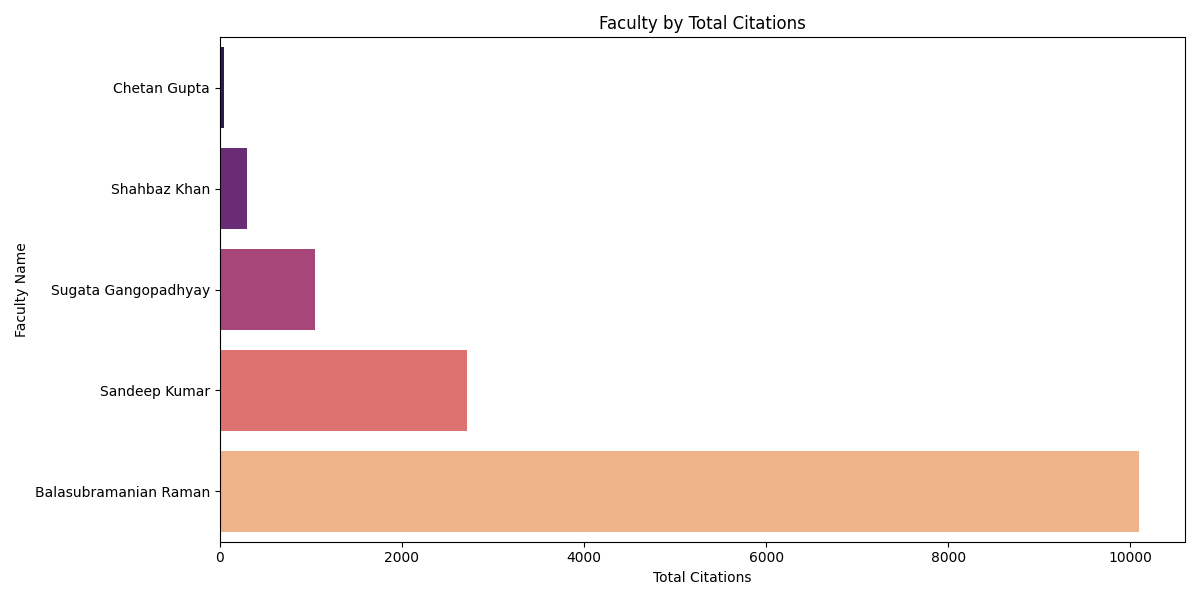
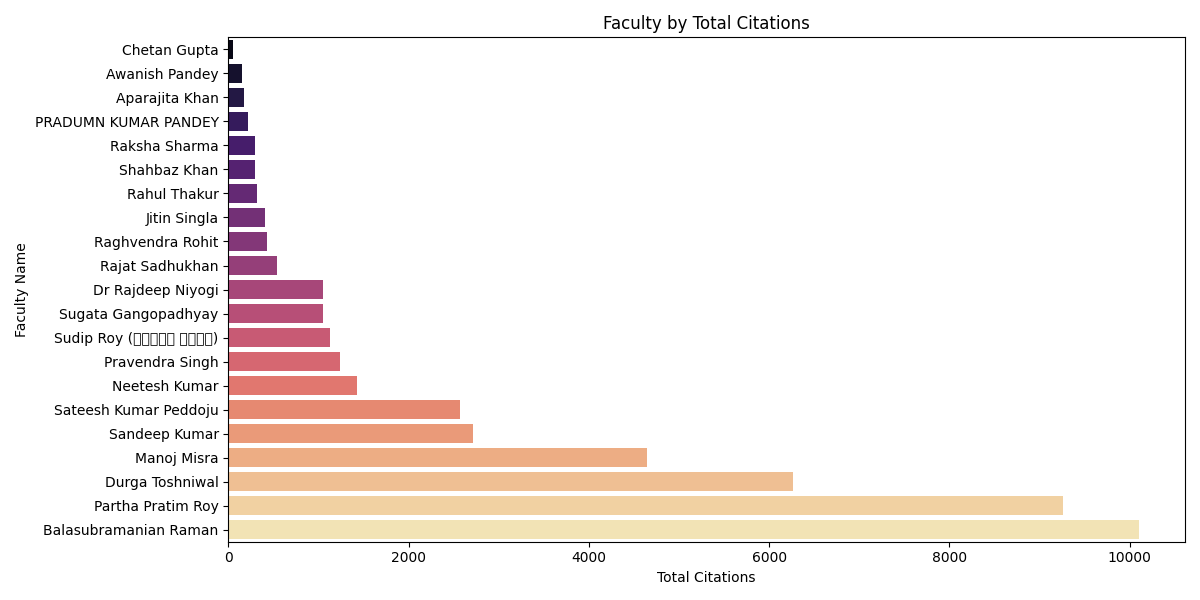
Community as per research area added, Community enlarged

Changed region(s): [[0.0308, 0.06, 0.9558, 0.99], [0.4933, 0.03, 0.6783, 0.06]]

diff --git a/paper_data_scraper.py b/paper_data_scraper.py
@@ -6,16 +6,14 @@ from urllib.parse import urlparse, parse_qs
 # Input and output file paths
 INPUT_CSV = "./data/iit_faculty_info.csv"  # Change this to your actual file
 OUTPUT_CSV = "./data/scholar_profile_data.csv"
-RECORD_LIMIT = 5  # Change this to limit the number of profiles to process
+SKIPPED_CSV = "./data/skipped_records.csv"  # File to store skipped records
 
 # Read faculty information from CSV
-def read_faculty_data(file_path, limit):
+def read_faculty_data(file_path):
     faculty_data = []
     with open(file_path, newline='', encoding='utf-8') as csvfile:
         reader = csv.DictReader(csvfile)
-        for i, row in enumerate(reader):
-            if i >= limit:
-                break
+        for row in reader:
             faculty_data.append((row["Faculty Name"].strip(), row["Google Scholar Link"].strip()))
     return faculty_data
 
@@ -39,42 +37,51 @@ def fetch_scholar_data(profile_id):
         h_index = author.get("hindex", 0)
         i10_index = author.get("i10index", 0)
         
-        # Get all publications
-        # publications = [
-        #     (p["bib"].get("title", "N/A"), p.get("num_citations", 0)) 
-        #     for p in author.get("publications", [])
-        # ]
-        
         return [name, affiliation, interests, citations, h_index, i10_index]
-        # return [name, affiliation, interests, citations, h_index, i10_index, publications]
     except Exception as e:
         print(f"Error fetching data for profile {profile_id}: {e}")
         return ["Error", "Error", "Error", "Error", "Error", "Error"]
-        # return ["Error", "Error", "Error", "Error", "Error", "Error", "Error"]
 
 # Write results to CSV
 def write_to_csv(data, output_file):
     with open(output_file, mode='w', newline='', encoding='utf-8') as file:
         writer = csv.writer(file)
         writer.writerow(["Faculty Name", "Name", "Affiliation", "Research Interests", "Total Citations", "h-index", "i10-index"])
-        # writer.writerow(["Faculty Name", "Name", "Affiliation", "Research Interests", "Total Citations", "h-index", "i10-index", "Publications (Title, Citations)"])
         writer.writerows(data)
 
+# Write skipped records to CSV
+def write_skipped_records(skipped_data, skipped_file):
+    with open(skipped_file, mode='w', newline='', encoding='utf-8') as file:
+        writer = csv.writer(file)
+        writer.writerow(["Faculty Name", "Google Scholar Link"])
+        writer.writerows(skipped_data)
+
 # Main execution
-faculty_list = read_faculty_data(INPUT_CSV, RECORD_LIMIT)
+faculty_list = read_faculty_data(INPUT_CSV)
 data = []
+skipped_records = []
 
 for faculty_name, scholar_link in faculty_list:
     print(f"Fetching data for {faculty_name}...")
+    if not scholar_link:  # Skip if the link is missing
+        print(f"Missing Google Scholar link for {faculty_name}")
+        skipped_records.append([faculty_name, scholar_link])
+        continue
+    
     profile_id = extract_profile_id(scholar_link)
     if profile_id:
         result = fetch_scholar_data(profile_id)
-        data.append([faculty_name] + result)
+        if "Error" in result:  # Skip if there was an error fetching data
+            skipped_records.append([faculty_name, scholar_link])
+        else:
+            data.append([faculty_name] + result)
     else:
         print(f"Invalid Google Scholar link for {faculty_name}")
-        data.append([faculty_name, "Invalid Link", "N/A", "N/A", "N/A", "N/A", "N/A"])
-        # data.append([faculty_name, "Invalid Link", "N/A", "N/A", "N/A", "N/A", "N/A", "N/A"])
+        skipped_records.append([faculty_name, "Invalid Link"])
+    
     time.sleep(3)  # Minimal delay to avoid detection
 
 write_to_csv(data, OUTPUT_CSV)
+write_skipped_records(skipped_records, SKIPPED_CSV)
 print(f"Data saved to {OUTPUT_CSV}")
+print(f"Skipped records saved to {SKIPPED_CSV}")

diff --git a/community.py b/community.py
@@ -1,0 +1,68 @@
+import pandas as pd
+import networkx as nx
+import matplotlib.pyplot as plt
+import numpy as np
+
+SAVE_PATH = "./plots/community.png"
+# Load the data from the CSV file
+data = pd.read_csv('data/iit_research_areas.csv')
+
+# Clean column names by stripping whitespace
+data.columns = data.columns.str.strip()
+
+# Create a graph
+G = nx.Graph()
+
+# Create a mapping of professors to research areas
+for index, row in data.iterrows():
+    research_area = row['Research Area']
+    professors = [prof.strip() for prof in row['Faculty Members'].split(',')]
+    
+    # Add edges between professors for the same research area
+    if len(professors) > 1:  # Only add edges if there are multiple professors
+        for i in range(len(professors)):
+            for j in range(i + 1, len(professors)):
+                G.add_edge(professors[i], professors[j], research_area=research_area)
+
+# Draw the graph
+plt.figure(figsize=(16, 12))  # Increased figure size for better visibility
+pos = nx.spring_layout(G, k=0.6)  # Adjusted k for better separation
+
+# Create a color map for edges based on research areas
+edge_colors = {}
+for index, row in data.iterrows():
+    research_area = row['Research Area']
+    if research_area not in edge_colors and len(row['Faculty Members'].split(',')) > 1:
+        edge_colors[research_area] = np.random.rand(3,)  # Random color for each community
+
+# Draw edges with community colors
+for u, v, data in G.edges(data=True):
+    color = edge_colors[data['research_area']]
+    nx.draw_networkx_edges(G, pos, edgelist=[(u, v)], edge_color=[color], alpha=0.6)  # Adjusted alpha for visibility
+
+# Draw all nodes with distinct colors
+node_colors = ['lightblue' if G.degree(node) > 1 else 'lightgray' for node in G.nodes()]
+nx.draw_networkx_nodes(G, pos, node_color=node_colors, node_size=800)  # Increased node size
+
+# Draw labels
+nx.draw_networkx_labels(G, pos, font_size=12)
+
+# Create a legend for edges
+handles = [plt.Line2D([0], [0], marker='o', color='w', label=area, 
+                       markerfacecolor=color, markersize=10) for area, color in edge_colors.items()]
+
+# Add single-member research areas to the legend
+data = pd.read_csv('data/iit_research_areas.csv')
+single_member_areas = data[data['Faculty Members'].str.count(',') == 0]['Research Area']
+for area in single_member_areas:
+    handles.append(plt.Line2D([0], [0], marker='o', color='w', label=area, 
+                                markerfacecolor='lightgray', markersize=10))
+
+plt.legend(handles=handles, title='Research Areas', loc='upper left', bbox_to_anchor=(1, 1))
+
+# Show the plot
+plt.title('Community Structure of Professors Based on Research Areas')
+plt.axis('off')  # Turn off the axis
+plt.tight_layout()  # Adjust layout to prevent clipping
+plt.savefig(SAVE_PATH)
+plt.show()

diff --git a/README.md b/README.md
@@ -1,1 +1,14 @@
 Cite-Net-Influence
+
+Flow:
+
+Cautions:
+Don't run the scraper.py file, it will erase manually added Google Scholar links in data/iit_faculty_info.csv
+
+1. Scrape the research areas of the faculty from the website using scraper.py
+2. Manually add the Google Scholar links to the faculty information in data/iit_faculty_info.csv
+3. Scrape the citation data from Google Scholar using paper_data_scraper.py
+4. Analyse the data using visualisation.py and community.py
+
+
+
